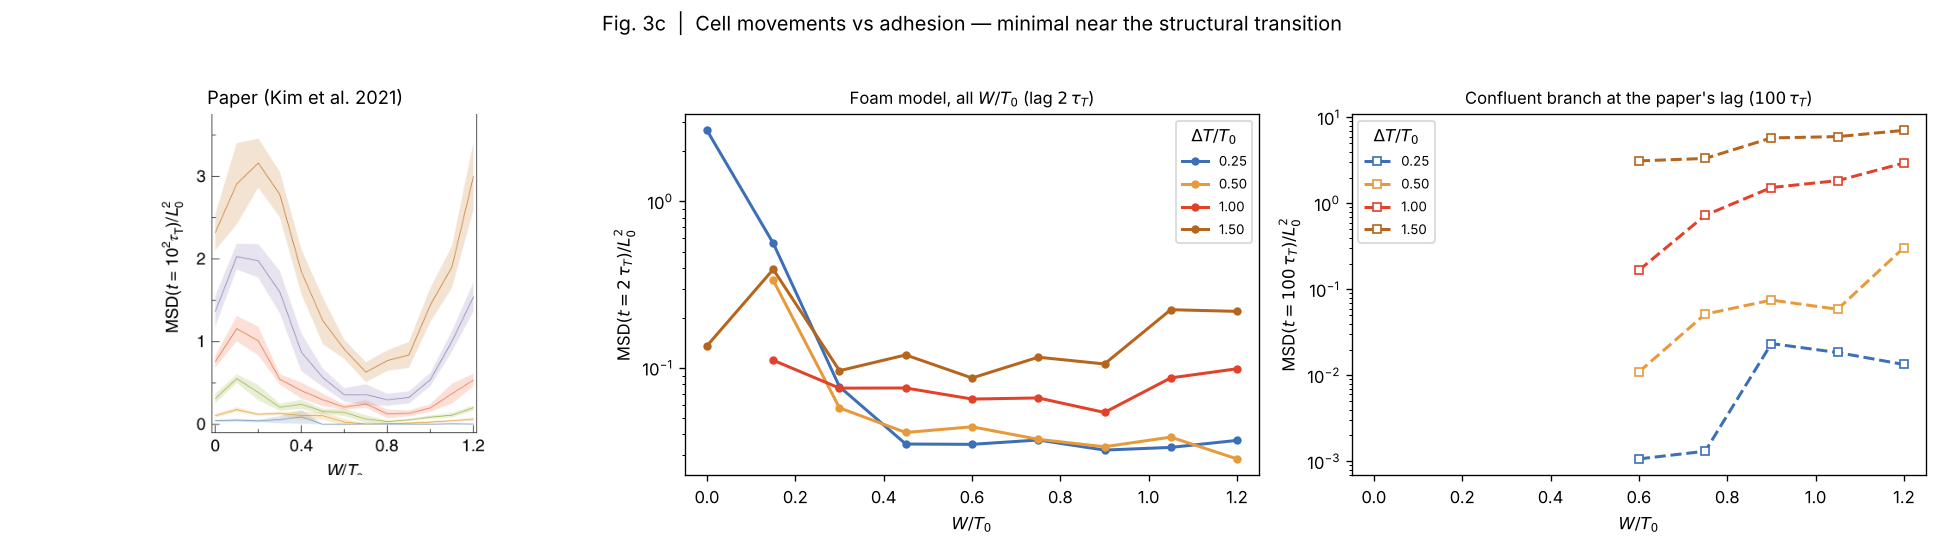
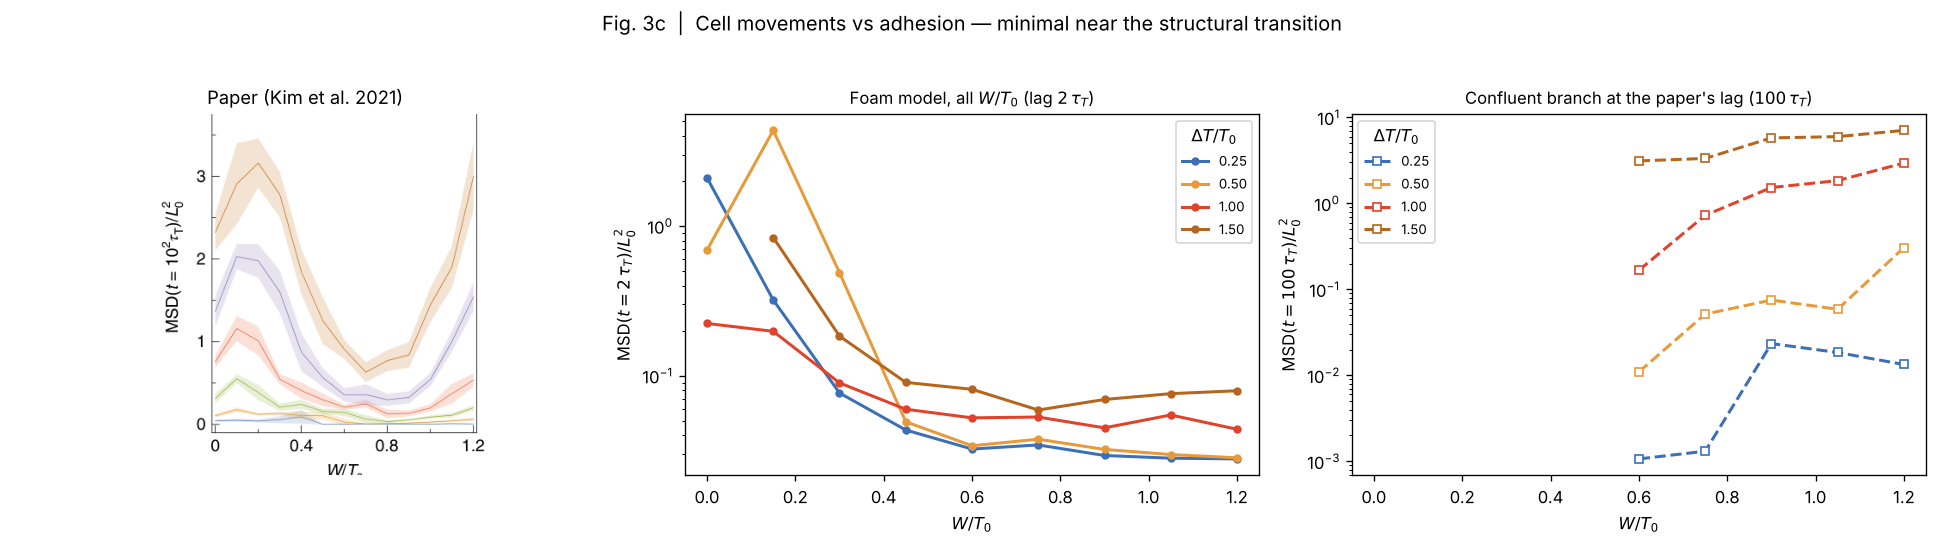
Regenerate Fig 2c map, Fig 3c/3d and Fig 4d/4e without space annihilation
Fig 2c map: 8 of 64 points have no valid run (7 before). Fig 3c/3d: 5 of
72 runs invalid, all at W/T0 <= 0.15. Fig 4d/4e: 1 of 70 runs invalid.
The foam-model NE rate now counts T1 events only (there are no
annihilation events left to count); labels updated.

Claude-Session: https://claude.ai/code/session_01PMTn5vzrnhLsDsmYcn13qG

Changed region(s): [[0.3395, 0.2464, 0.6481, 0.8315], [0.5864, 0.5543, 0.6481, 0.5851], [0.6173, 0.6467, 0.6481, 0.6775]]

diff --git a/scripts/build_gallery.py b/scripts/build_gallery.py
@@ -63,7 +63,7 @@ CARDS = [
      "ΔT/T₀ ≥ 1; the confluent branch is shown separately at the paper's "
      "100 τ_T lag. No single curve spans the full range at the paper's lag."),
     ("compare_fig3d_ne_rate.png", "Fig 3d", "Neighbour-exchange rate vs adhesion",
-     "Foam model (T1 + contact changes)", "good",
+     "Foam model (T1 events)", "good",
      "High-activity curves reproduce the minimum near W/T₀≈0.8–0.9 and the rise "
      "on both sides with the paper's magnitudes. Low-activity curves hit the "
      "20 τ_R resolution floor; dashed squares extend them on the confluent "

diff --git a/scripts/make_comparisons.py b/scripts/make_comparisons.py
@@ -367,7 +367,7 @@ def fig3cd():
     ax.set_xlim(-0.05, 1.25)
     ax.set_xlabel(r"$W/T_0$"); ax.set_ylabel(r"cellular NE rate $(\tau_R^{-1})$")
     ax.legend(title=r"$\Delta T/T_0$", fontsize=8, loc="upper right", ncol=2)
-    ax.set_title("This work (foam model: T1 + contact changes)", fontsize=11)
+    ax.set_title("This work (foam model: T1 events)", fontsize=11)
     fig.suptitle(r"Fig. 3d  |  Neighbour-exchange rate vs adhesion — minimal at the "
                  r"structural transition", fontsize=12)
     fig.tight_layout(rect=[0, 0, 1, 0.95])

diff --git a/scripts/run_fig3cd.py b/scripts/run_fig3cd.py
@@ -7,7 +7,7 @@ there.  Low W/T0 is mobile because cell contacts continually break and reform
 neighbour exchanges (confluent).
 
 Measured directly from the curved-edge foam model, which has BOTH branches:
-  * cellular NE rate k_NE = (T1 + contact-change events) per cell per tau_R  (Fig 3d, log)
+  * cellular NE rate k_NE = T1 events on cell-cell edges per cell per tau_R       (Fig 3d, log)
   * MSD of the 36 persistent cell centroids over the measurement window,
     in the tissue centre-of-mass frame, in units of L0^2                     (Fig 3c)
 
